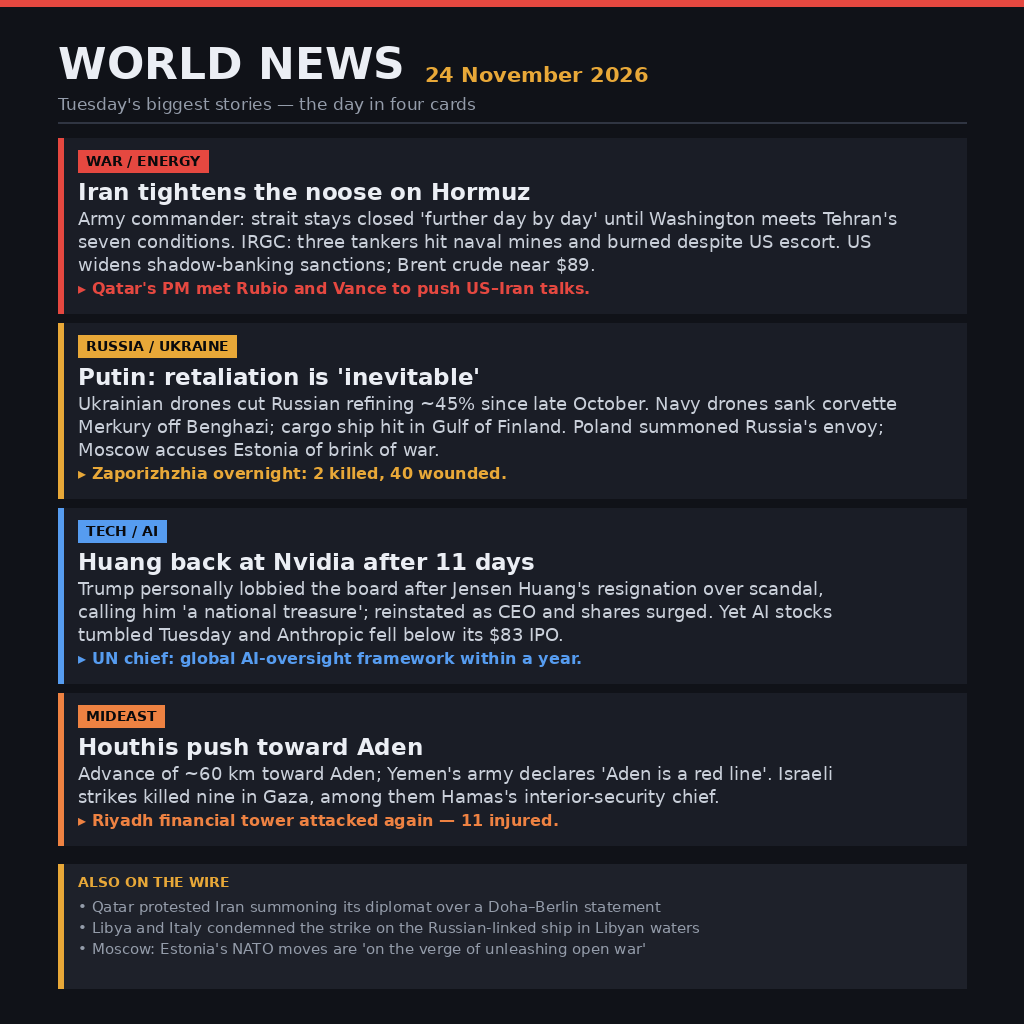
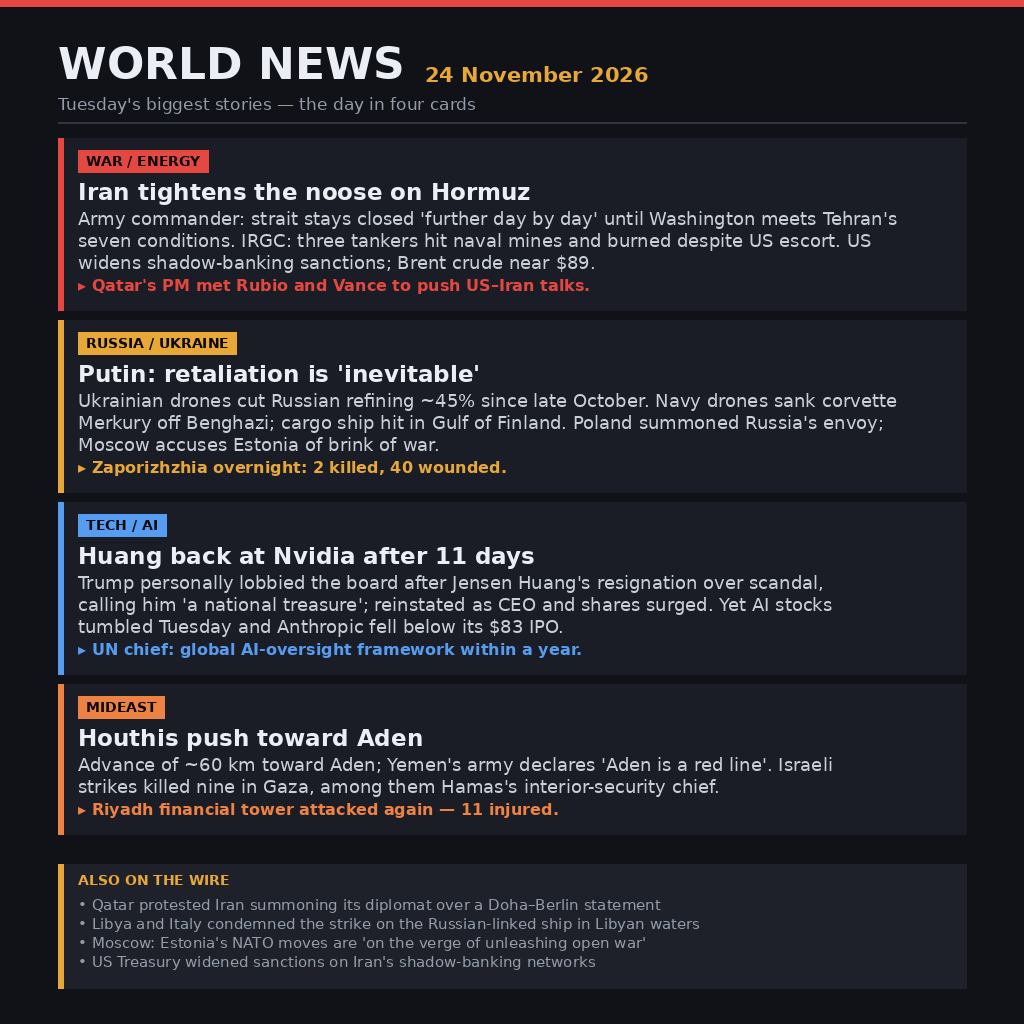
pass 2: footer bullet + masthead kicker + contrast refinements

diff --git a/draw.py b/draw.py
@@ -63,7 +63,7 @@ cards = [
 
 FOOT_TOP = H - 160   # footer occupies FOOT_TOP .. H-40
 GAP = 10
-heights = [12 + 22 + 6 + 30 + len(wrap(c[3], 88)) * 23 + 2 + 24 + 10 for c in cards]
+heights = [12 + 22 + 6 + 30 + len(wrap(c[3], 88)) * 22 + 2 + 24 + 10 for c in cards]
 total = sum(heights) + GAP * 3
 assert y + total <= FOOT_TOP, f"cards overflow: {y+total} > {FOOT_TOP}"
 
@@ -80,7 +80,7 @@ for i, (color, tag, head, body, kicker) in enumerate(cards):
     yy += 30
     for ln in wrap(body, 88):
         d.text((x0, yy), ln, font=F_BODY, fill=BODY_C)
-        yy += 23
+        yy += 22
     yy += 2
     d.text((x0, yy), "\u25b8 " + kicker, font=F_KICK, fill=color)
     assert yy + 22 <= y + ch
@@ -90,16 +90,17 @@ for i, (color, tag, head, body, kicker) in enumerate(cards):
 fy = FOOT_TOP
 d.rectangle([M, fy, W - M, H - 36], fill=(30, 33, 42))
 d.rectangle([M, fy, M + 5, H - 36], fill=AMBER)
-d.text((M + 20, fy + 10), "ALSO ON THE WIRE", font=F_FOOTB, fill=AMBER)
-ff = fy + 34
+d.text((M + 20, fy + 8), "ALSO ON THE WIRE", font=F_FOOTB, fill=AMBER)
+ff = fy + 32
 foot = [
     "\u2022 Qatar protested Iran summoning its diplomat over a Doha\u2013Berlin statement",
     "\u2022 Libya and Italy condemned the strike on the Russian-linked ship in Libyan waters",
     "\u2022 Moscow: Estonia's NATO moves are 'on the verge of unleashing open war'",
+    "\u2022 US Treasury widened sanctions on Iran's shadow-banking networks",
 ]
 for ln in foot:
     d.text((M + 20, ff), ln, font=F_FOOT, fill=DIM)
-    ff += 21
+    ff += 19
 
 out = os.path.join(os.path.dirname(os.path.abspath(__file__)), "entry.png")
 img.save(out, "PNG", optimize=True)
